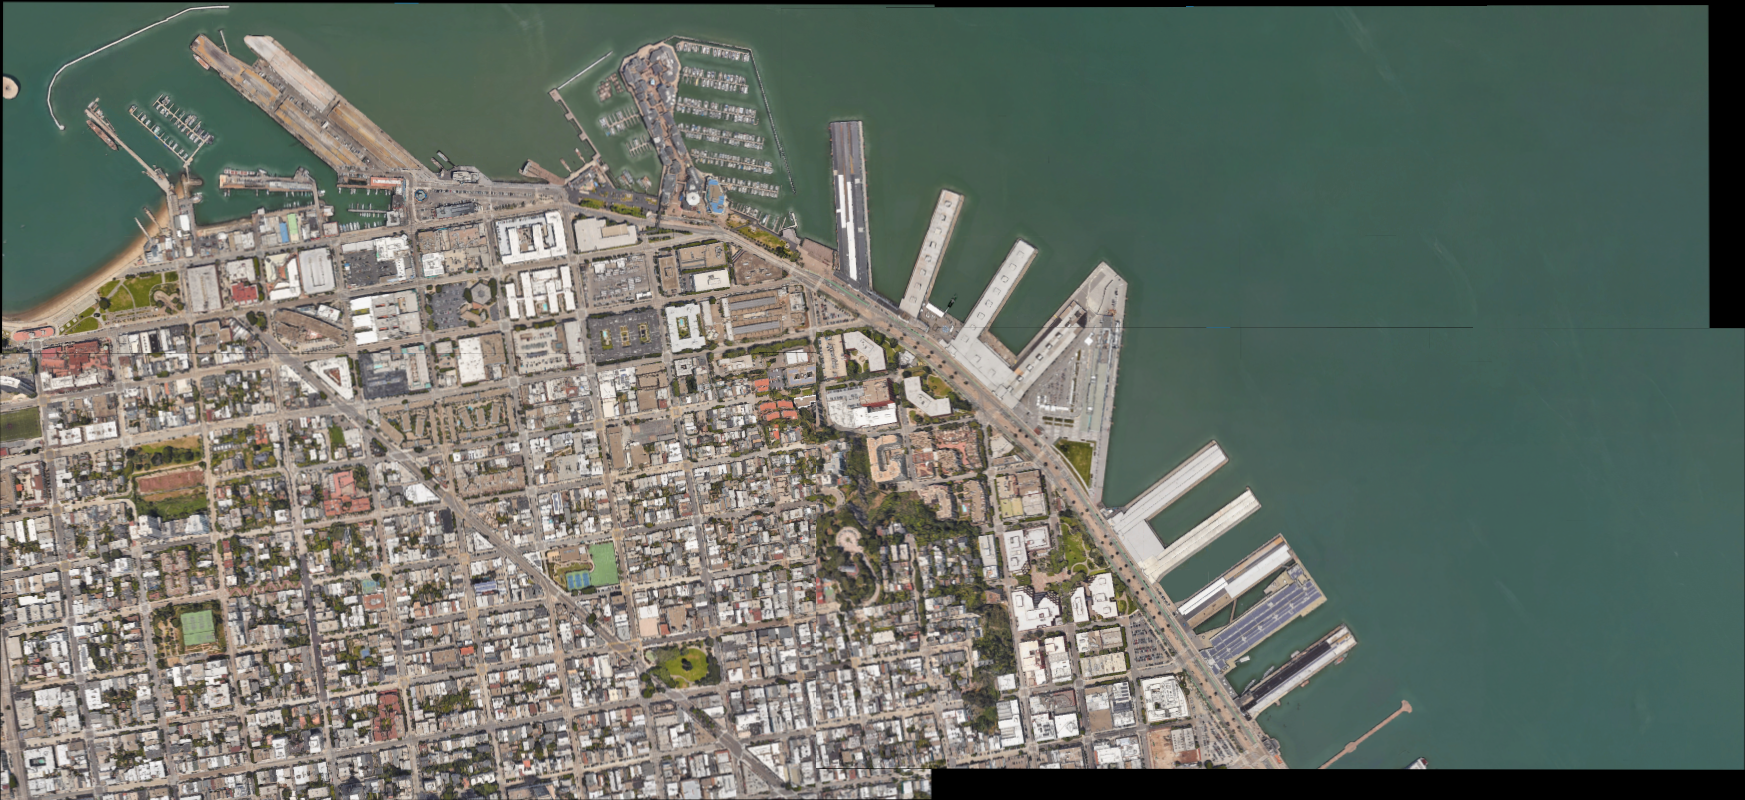
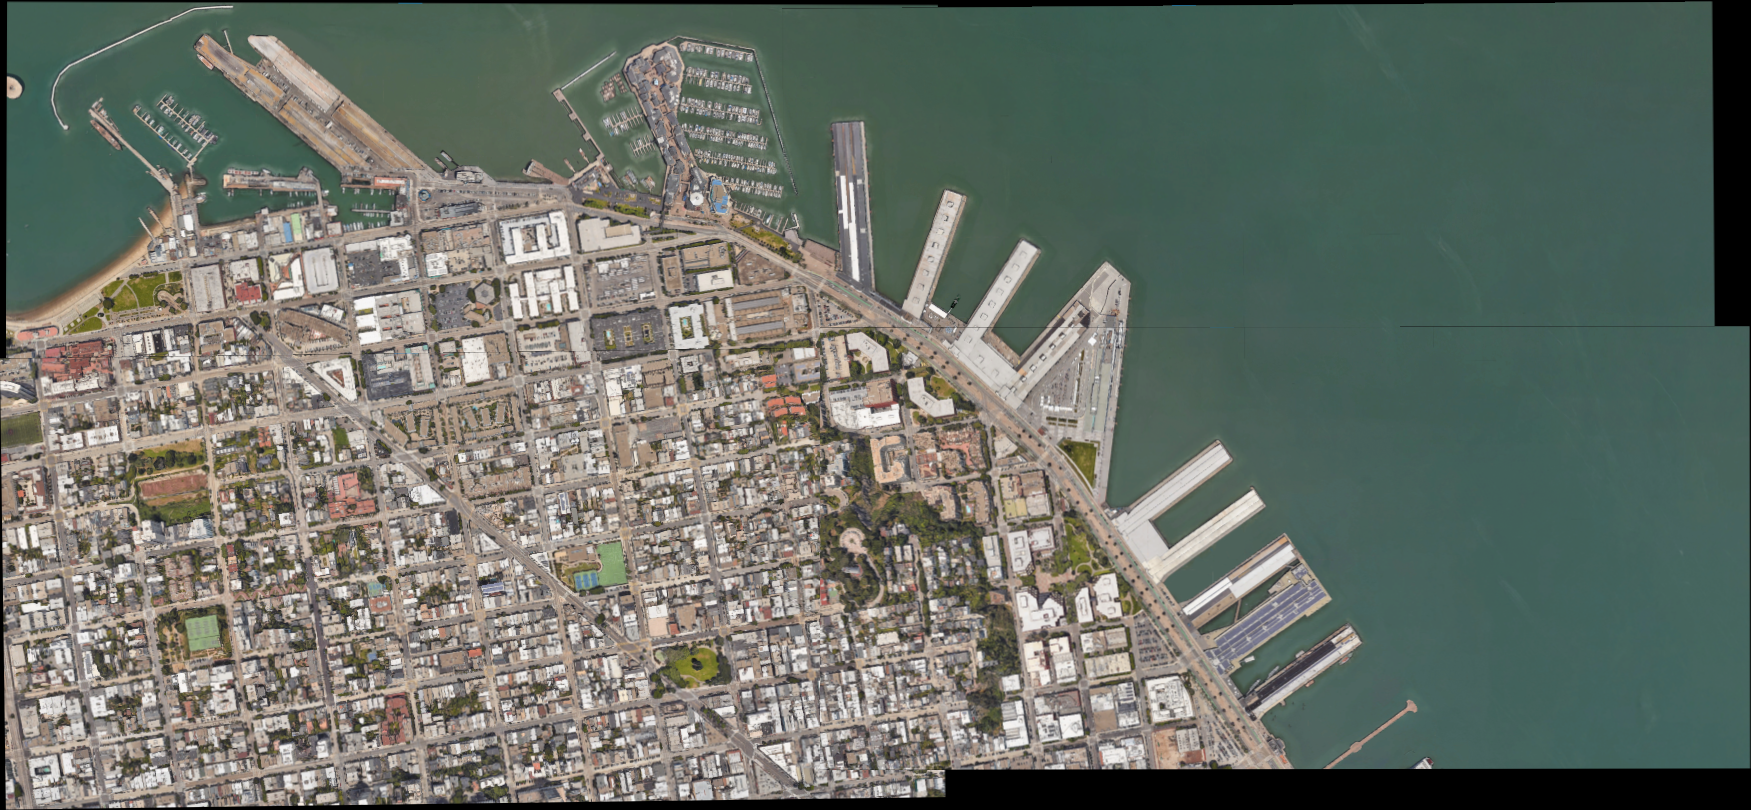
1. Rotation matrix was performing rotations in pitch-roll-yaw order, must be in roll-pitch-yaw order. 2. Z-axis rotation info (3rd matrix row) was being arbitrarily reset to [0,0,1]

diff --git a/src/main.cpp b/src/main.cpp
@@ -49,10 +49,7 @@ cv::Mat computeUnRotMatrix (imageData& pose) {
     Rx << 1, 0, 0,
           0, cos (g), -sin (g),
           0, sin (g), cos (g);
-    Matrix3d R = Rz * (Rx * Ry);
-    R(0,2) = 0;
-    R(1,2) = 0;
-    R(2,2) = 1;
+    Matrix3d R = Rz * (Ry * Rx);
     Matrix3d Rtrans = R.transpose ();
     Matrix3d InvR = Rtrans.inverse ();
     cv::Mat transformation = (cv::Mat_<double>(3,3) << InvR(0,0), InvR(0,1), InvR(0,2),
